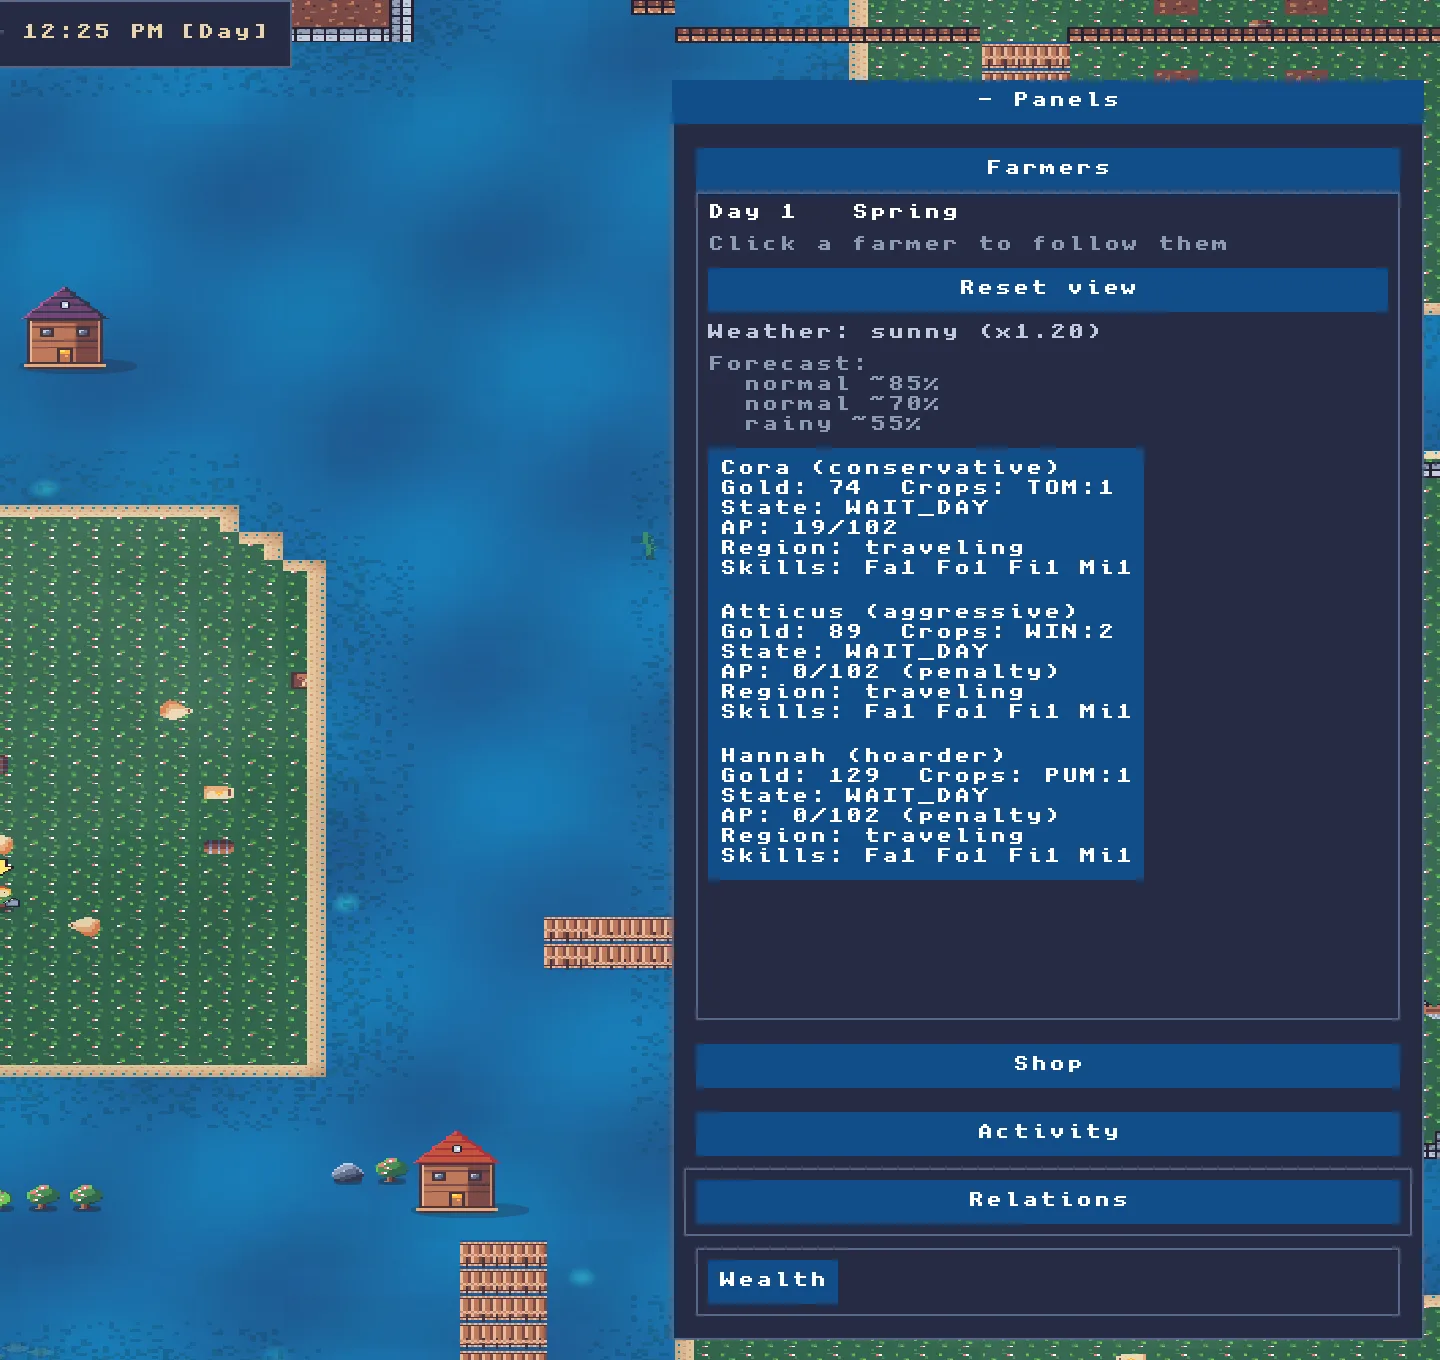
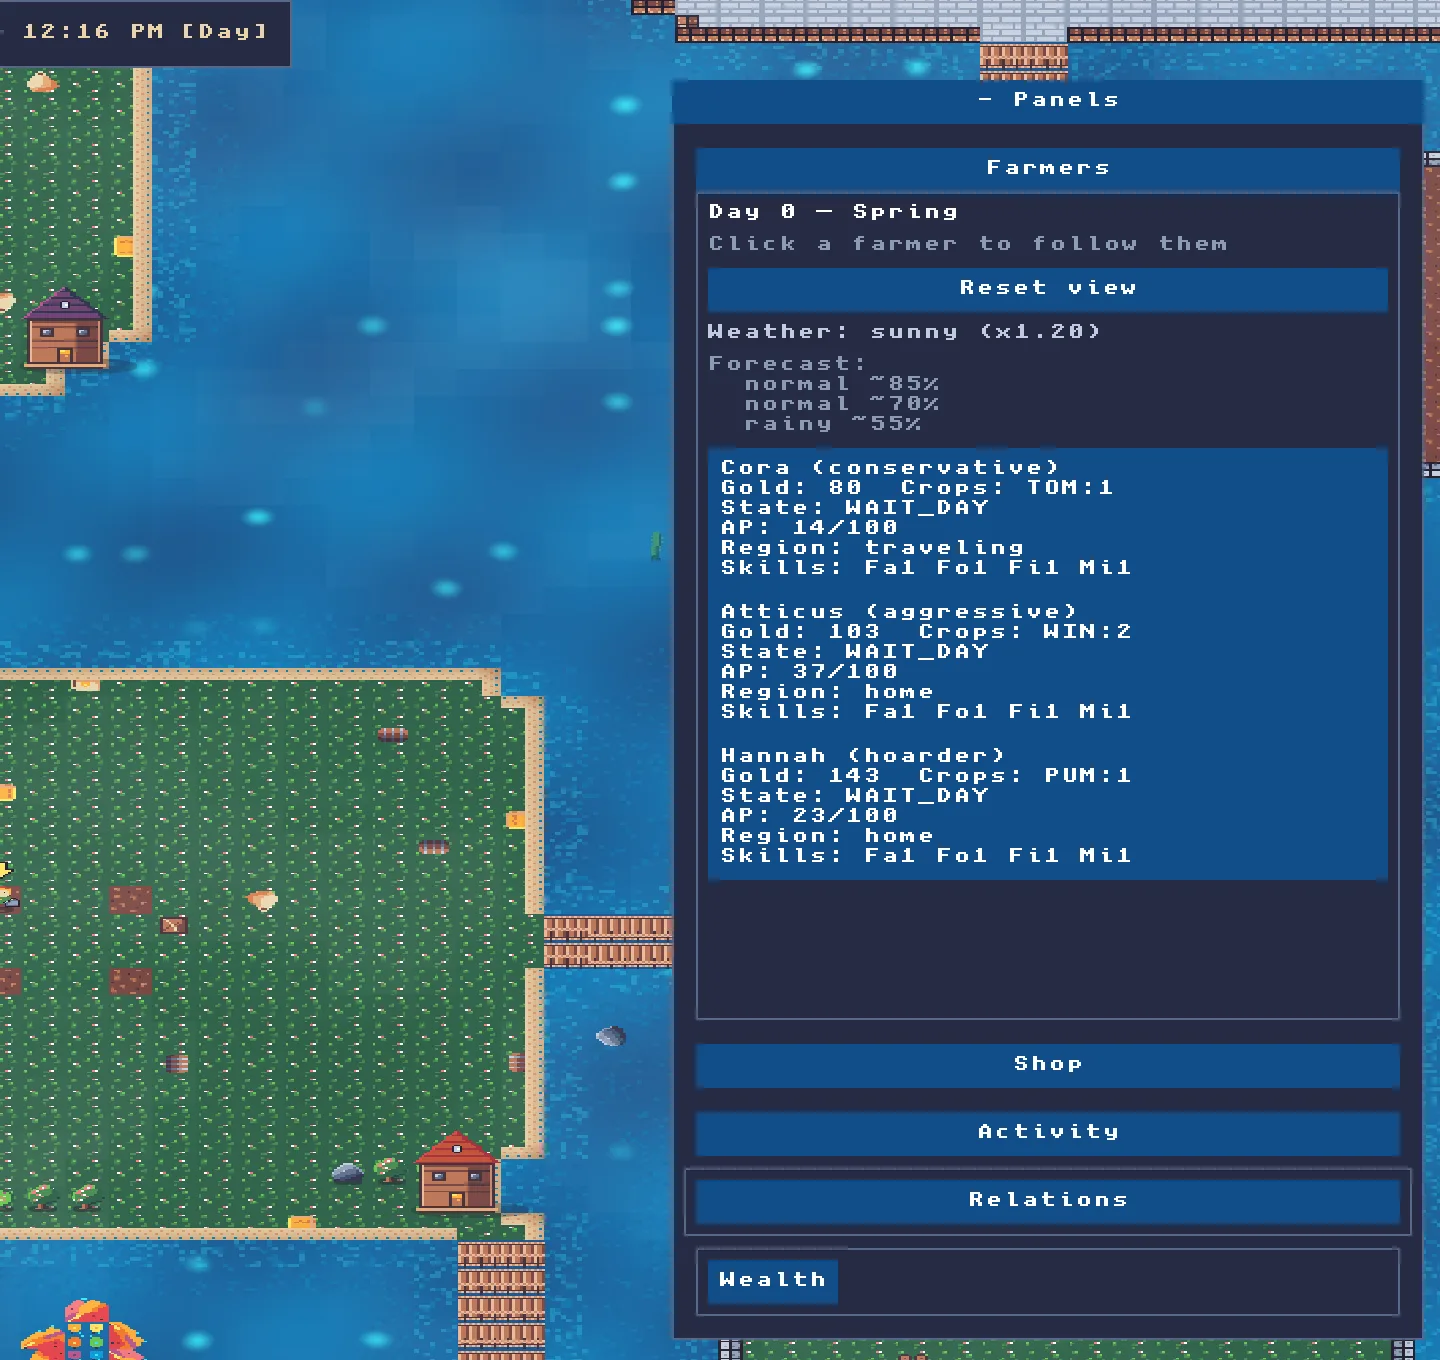
README: retake the Farm and Citadel images after the upside-down fix
four-games.webp and farm-farmers-panel.webp were taken on 2026-10-09,
when every baked static layer was drawn upside down: Farm's houses sat
in open water and Citadel's terrain was flipped. Retaken from a local
production build of main, served from one origin with serve-all. Farm's
houses are on land and its bridges join banks; Citadel's terrain agrees
with its minimap. All four grid tiles were retaken from the same build.

shots.md: the two rows are dated 2026-11-07, and the recipe records the
local build, the Farm capture tick (12:25 PM is tick 385; the first day
now reads "Day 0") and Citadel's tile layout.

Claude-Session: https://claude.ai/code/session_01RnCo6FBsdjeoGdfH8bECZR

diff --git a/docs/images/shots.md b/docs/images/shots.md
@@ -1,24 +1,24 @@
 # README images
 
-How each image was made, so the next refresh is a re-run. Retake an image when the screen it shows changes. All four were taken on 2026-10-09 in headless Chrome (agent-browser), which renders WebGL2 in software, so expect 4 to 10 frames per second.
+How each image was made, so the next refresh is a re-run. Retake an image when the screen it shows changes. All four were taken in headless Chrome, which renders WebGL2 in software, so expect 3 to 10 frames per second: the two dated 2026-10-09 with agent-browser, the two dated 2026-11-07 with Playwright's Chromium launched with `--use-angle=swiftshader --enable-unsafe-swiftshader`.
 
 | File | Shows | How to reach that state | Viewport | Data | Taken |
 |---|---|---|---|---|---|
-| four-games.webp | The four games in a 2×2 grid | One screenshot per game (below), each scaled to 1200×750 and stacked with a 12 px gap | 1440×900 @2x each | see each row | 2026-10-09 |
+| four-games.webp | The four games in a 2×2 grid | One screenshot per game (below), each scaled to 1200×750 and stacked with a 12 px gap | 1440×900 @2x each | see each row | 2026-11-07 |
 | mathquest-combat.gif | Map, then two correct answers landing as hits | `npm run dev -w @mathquest/client -- --port 5311 --strictPort`, fresh page. Click the top-left map node, Attack, 3, Trimite; then Attack and `>` | 1280×800 @1x | the default run (problems: 5 - 2, then compare 10 and 7) | 2026-10-09 |
 | hollow-chronicle.webp | Hollow's chronicle and metric charts beside the 3D town | Crop of the full 2880×1800 Hollow capture: top-left 1440×1360 px | 1440×900 @2x | seed 42 | 2026-10-09 |
-| farm-farmers-panel.webp | Farm Valley's Farmers panel beside Pip's island | Crop of the full 2880×1800 Farm capture: 1440×1360 px starting 1440 px from the left | 1440×900 @2x | seed 0xc0ffee | 2026-10-09 |
+| farm-farmers-panel.webp | Farm Valley's Farmers panel beside Pip's island | Crop of the full 2880×1800 Farm capture: 1440×1360 px starting 1440 px from the left | 1440×900 @2x | seed 0xc0ffee | 2026-11-07 |
 
 ## The four grid tiles
 
-Each was captured from the deployed game (MateQuest from a local dev server, since it is not deployed) at 1440×900 @2x, after hiding the engine's debug overlay (fps, tick, entity count), which is a plain `div` with `white-space: pre`:
+Each was captured at 1440×900 @2x, after hiding the engine's debug overlay (fps, tick, entity count), which is a plain `div` with `white-space: pre`. Until 2026-10-09 the tiles came from the deployed games (MateQuest from a local dev server, since it is not deployed). Since 2026-11-07 they come from a local production build of `main`, served from one origin the way the VPS serves them: build the four clients and the portal with the commands at the top of `portal/scripts/serve-all.mjs`, then run `npm run server` (Farm's sim, :8787) and `PORT=8090 npm run serve-all -w @game-engine/portal`, and open the paths below on `http://localhost:8090`. The overlay snippet:
 
 ```js
 [...document.querySelectorAll("div")].filter(d => d.style.whiteSpace === "pre").forEach(d => d.style.display = "none")
 ```
 
-- **Farm Valley.** Open `/farm-valley/`, click Start (seed 0xc0ffee), wait about 25 s for the sim, zoom in two mouse-wheel steps, open Panels → Farmers, and capture at midday on day 1.
-- **Citadel.** Open `/citadel/?cozy`, which skips the ruleset picker. Extend the starter road south-east with the road tool, then place two houses beside it and a well, a chapel and a market off it. Run a few days, then pick the road tool so no placement ghost shows, and park the pointer over the build bar.
+- **Farm Valley.** Open `/farm-valley/`, click Start (seed 0xc0ffee), wait about 25 s for the sim, zoom in two mouse-wheel steps, open Panels → Farmers, and capture at midday on the first day. The clock is one game minute per tick from 6:00 AM, so 12:25 PM is tick 385; read the tick off the debug overlay before hiding it. Since 2026-11-07 the clock and the Farmers panel number the first day "Day 0" (the 2026-10-09 capture read "Day 1" at the same point in the run). Park the pointer on the panel's empty area so no button shows its hover colour.
+- **Citadel.** Open `/citadel/?cozy`, which skips the ruleset picker. Extend the starter road south-east with the road tool, then place two houses beside it and a well, a chapel and a market off it. Run a few days, then pick the road tool so no placement ghost shows, and park the pointer over the build bar. The 2026-11-07 layout, in tiles (the starter road is x 90–101 on y 96): road dragged from (102, 96) to (108, 96), houses at (103, 97) and (106, 97), chapel at (103, 94), market at (106, 94), well at (108, 98), which leaves Wood 14; then 4x until Day 5, back to 1x, and about 12 s for the day's event toasts to fade. The dev server's `window.__citadel.tileToScreenCss` gives each tile's screen point at the boot camera; the production build boots to the same camera.
 - **Hollow.** Open `/hollow/`, set the seed to 42, Start, choose 4x and run about 40 s (to year 18).
 - **MateQuest.** Fresh page, click the top-left map node, then Attack, so the first problem shows.
 
